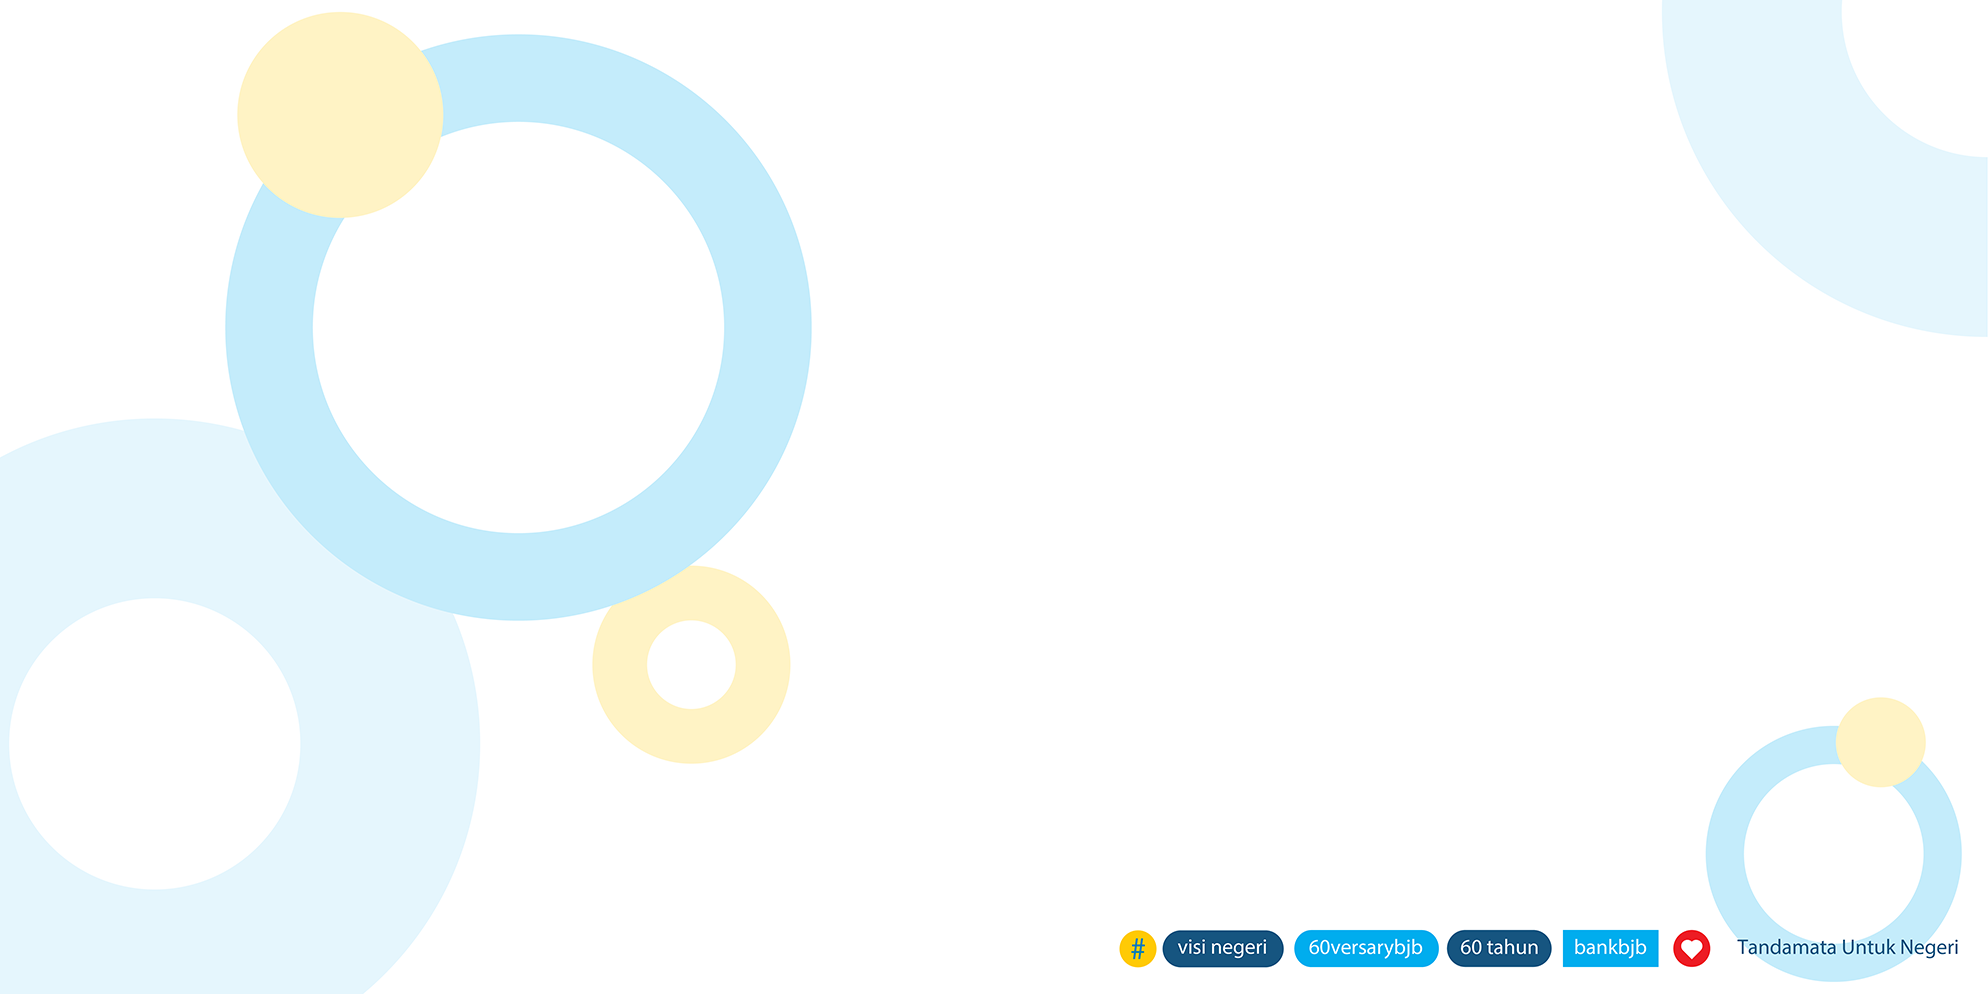
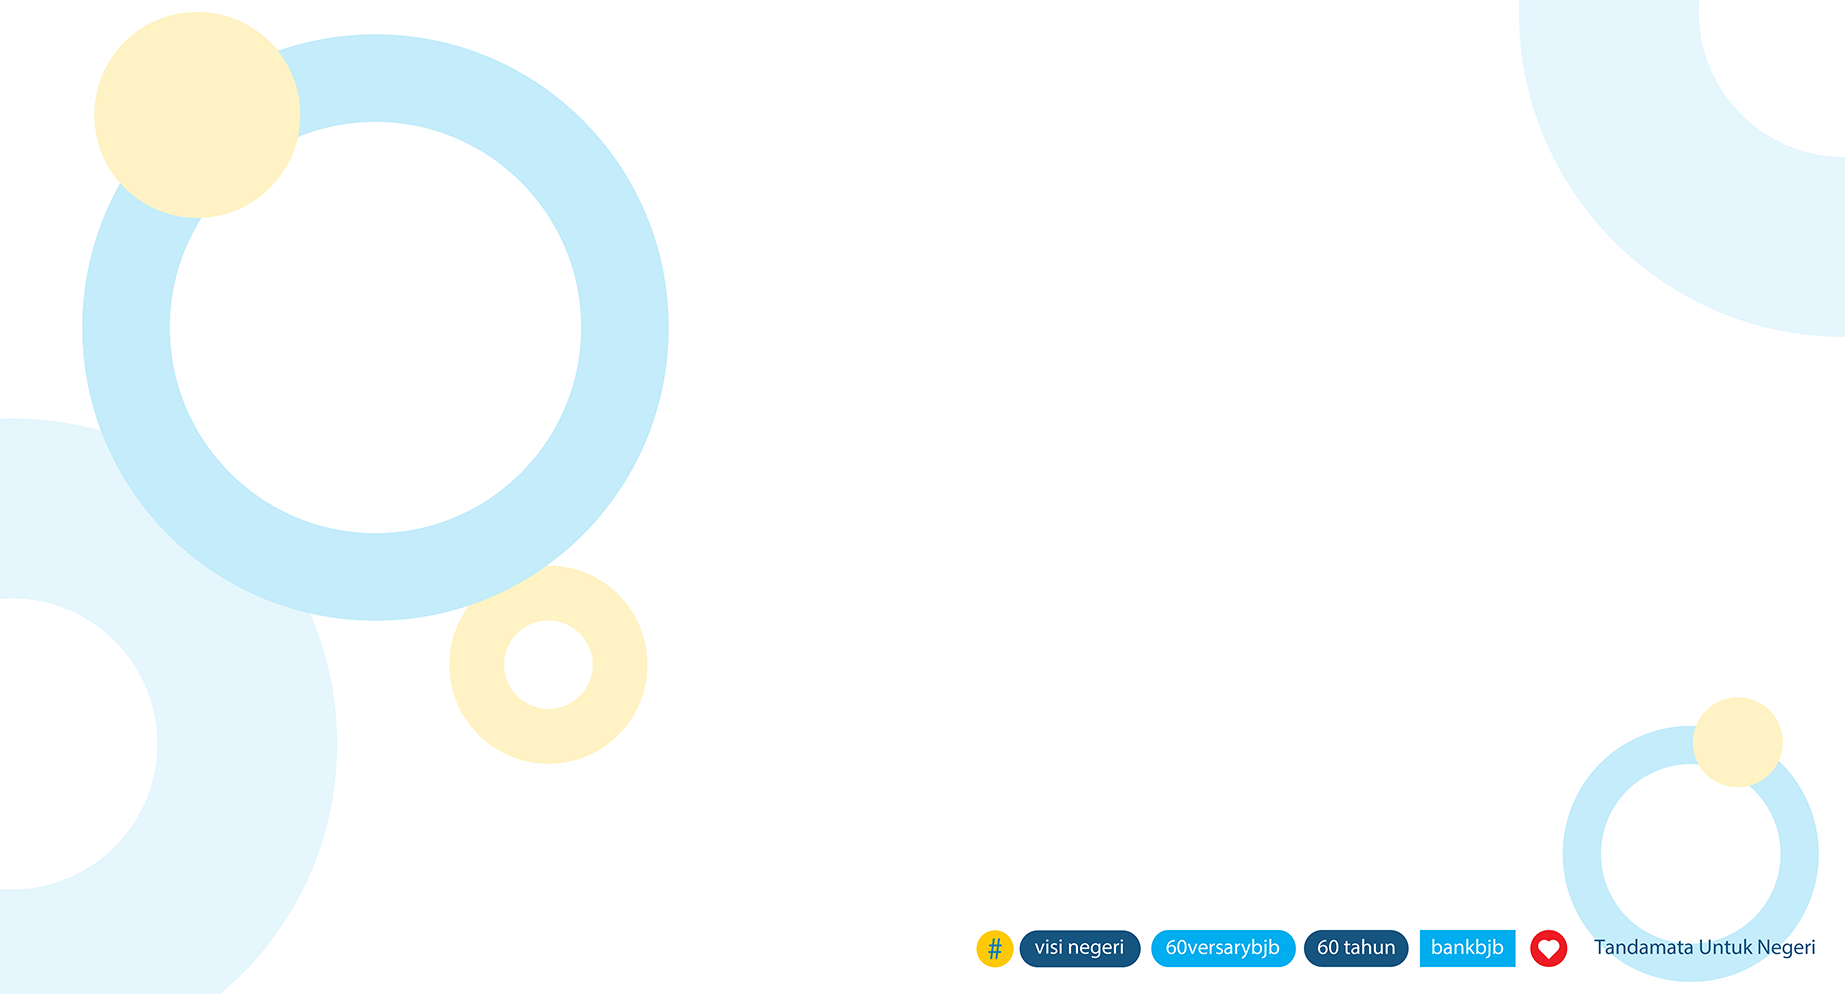
change backround not include Home

diff --git a/assets/css/backend.min0ff5.css b/assets/css/backend.min0ff5.css
@@ -16708,7 +16708,7 @@ body {
 }
 @media (min-width: 768px) {
     body {
-        background-image: url(../../images/background.png);
+        background-image: url(../../images/background1.png);
 
     }
 }

diff --git a/Framework/resources/views/master/master.blade.php b/Framework/resources/views/master/master.blade.php
@@ -4,6 +4,7 @@
 @include('layouts.assets.head')
 
 <body>
+
 <!-- loader Start -->
 <div id="loading">
     <div id="loading-center">
@@ -15,10 +16,12 @@
 <div class="wrapper">
     @include('layouts.assets.header')
     @yield('slider')
+    <div class="" style="overflow: scroll">
     <div class="content-page c-payment-block">
         <div class="container">
             @yield('content')
         </div>
+    </div>
     </div>
 </div>
 <!-- Wrapper End-->
@@ -27,6 +30,7 @@
 @include('sweetalert::alert')
 <!-- Backend Bundle JavaScript -->
 @include('layouts.assets.js')
+
 </body>
 
 </html>
